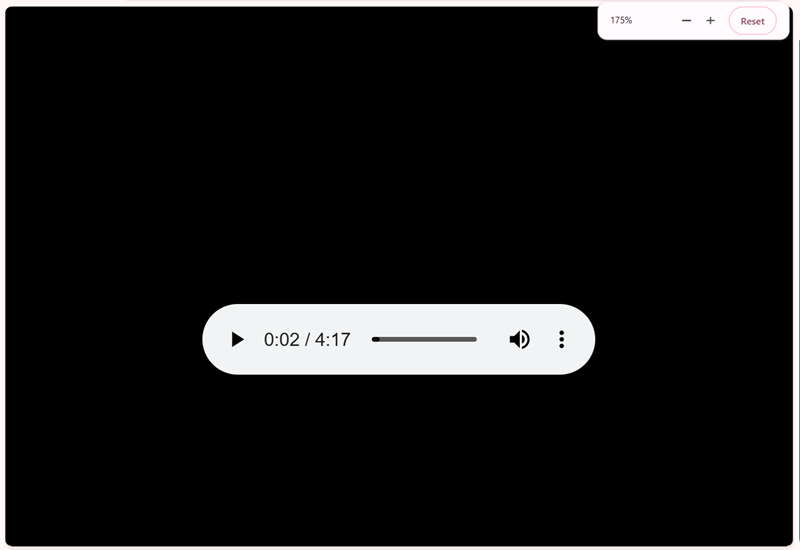
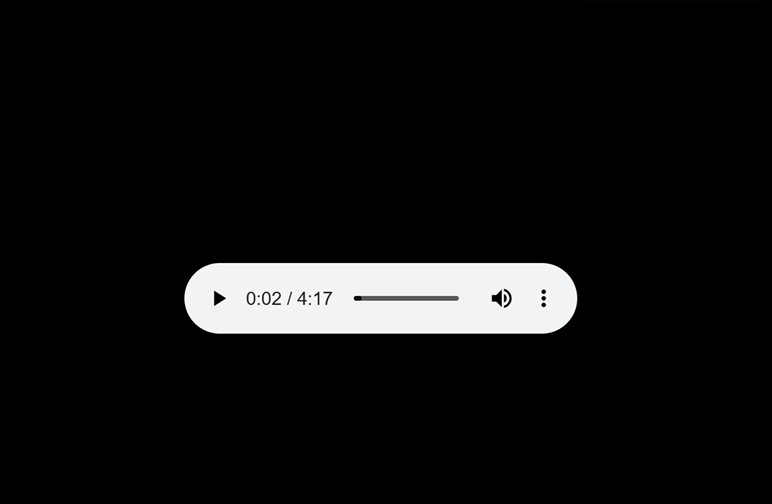
done finally

Changed region(s): [[0.0, 0.0, 1.0, 1.0], [0.2176, 0.506, 0.7461, 0.6845]]

diff --git a/readme.md b/readme.md
@@ -12,17 +12,33 @@ MOSS is a Chrome extension for creating, managing, and executing custom JavaScri
 
 ## Screenshots
 
-|                              |                             |
+|         Light Theme          |         Dark Theme          |
 | :--------------------------: | :-------------------------: |
 | ![](public/assets/light.png) | ![](public/assets/dark.png) |
 
-|                            |                            |
+## Revamp any UI
+
+|           Before           |           After            |
 | :------------------------: | :------------------------: |
-| ![](public/assets/use.png) | ![](public/assets/use.png) |
+| ![](public/assets/gbf.png) | ![](public/assets/gaf.png) |
+
+## Change Theme
+
+|            Before             |           After            |
+| :---------------------------: | :------------------------: |
+| ![](public/assets/wikibf.png) | ![](public/assets/use.png) |
+
+## Update legacy UI
 
 |            Before             |            After             |
 | :---------------------------: | :--------------------------: |
 | ![](public/assets/before.png) | ![](public/assets/after.png) |
+
+## Scrape webpage contents
+
+|            Before            |            After             |
+| :--------------------------: | :--------------------------: |
+| ![](public/assets/imgbf.png) | ![](public/assets/imgaf.png) |
 
 ---
 